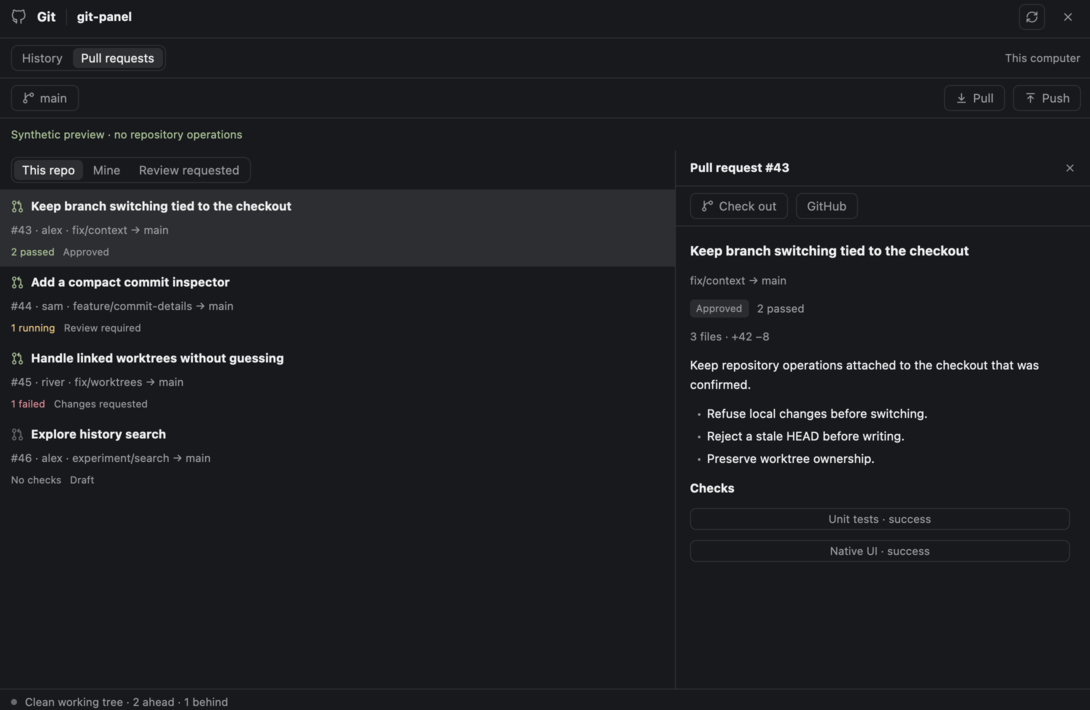
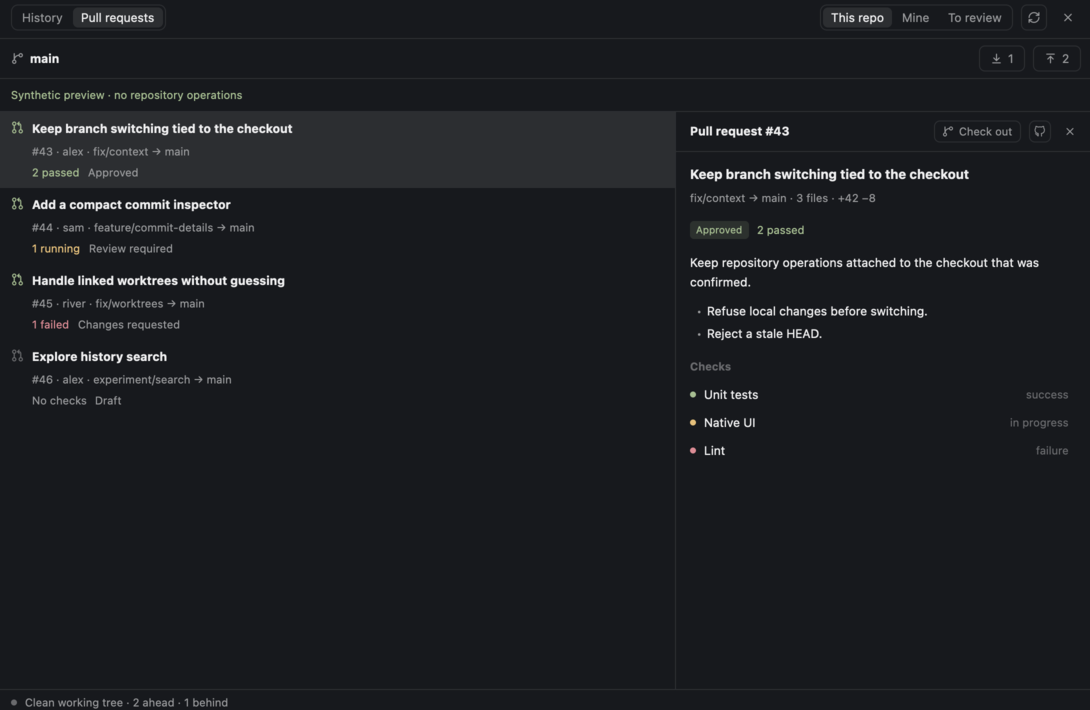
Compact the Git panel header and align list rows
Merge the four header rows into two: mode and panel controls first,
then the branch switcher with Pull/Push counts. The repository path
moves to the branch tooltip; the PR filter shares row 1 at 480px+.

Align commit, PR and branch rows on one 14px gutter, tighten the
title/byline pairs, group PR details, and show checks as a list.

diff --git a/mods/Git/main.js b/mods/Git/main.js
@@ -1,10 +1,13 @@
 import { View, div, svg } from "gpui-kit";
-import { h_flex, v_flex, InputState, Input, TextView, v_virtual_list, Scrollbar, VirtualListScrollHandle } from "gpui-base";
+import { h_flex, v_flex, Button, InputState, Input, TextView, v_virtual_list, Scrollbar, VirtualListScrollHandle } from "gpui-base";
 import { exec, props, focused, spaces, panes, theme, settings, layout, run, openOverlay, closeOverlay, nextCommand, shared, setShared } from "herdr";
 import { GitClient } from "./client.js";
 import { layoutLanes } from "./lanes.js";
-import { contextKey, ago, tint, refLabel, reviewLabel } from "./model.js";
-import { button, segments, bar, label, secondary, pill, empty, graphCell, icon, stop, ROW } from "./ui.js";
+import { contextKey, ago, tint, refLabel, reviewLabel, checksSummary } from "./model.js";
+import { button, segments, bar, secondary, pill, empty, graphCell, graphCellWidth, checkColor, icon, stop, ROW } from "./ui.js";
+
+// Below this width the PR filter takes its own row instead of sharing the mode row.
+const PR_FILTER_INLINE = 480;
 
 function find(node, id) {
   if (node?.id === id) return node;
@@ -237,65 +240,93 @@ export default class Git extends View {
         }))
       .child(Scrollbar.vertical(name).viewport_from_layout().absolute().inset_0());
   }
+  // Header controls. The branch name doubles as the branch picker, as in Codewalker’s header.
+  branchSwitch() {
+    const t = theme(), data = this.data, on = this.mode === "branches", enabled = !this.busy;
+    const name = data.branch || "Detached HEAD";
+    const where = `${data.root}${this.where.on ? ` · ${this.where.on}` : ""}`;
+    // Leads the header: the negative margin puts its icon on the 14px gutter while the hover fill keeps its padding.
+    return Button.new("branches").h(26).min_w(0).ml(-6).px(6).rounded(6).text_size(12).font_semibold().bg(on ? t.selected : "#00000000").text_color(t.foreground)
+      .when(enabled, e => e.cursor_pointer().hover(s => s.bg(on ? t.selected : t.hover)))
+      .disabled(!enabled).tooltip(on ? "Close branch list" : `Switch branch · ${where}`).accessibility_label(`Switch branch, current ${name}`)
+      .on_mouse_down("left", stop).on_click((_event, cx) => { if (enabled) this.setMode(on ? "history" : "branches", cx); })
+      .child(h_flex().min_w(0).gap(6).items_center()
+        .child(svg(icon("git-branch")).size(13).flex_none().text_color(on ? t.foreground : t.muted))
+        .child(div().min_w(0).truncate().child(name)));
+  }
+  branchSearch() {
+    const t = theme(), count = this.branchRows().length;
+    return bar(40)
+      .child(div().flex_1().min_w(0).h(26).px(8).rounded(6).bg(t.background).border_1().border_color(t.input).cursor_text().on_mouse_down("left", stop)
+        .child(Input.new(this.search).h_full().text_size(12).text_color(t.foreground)))
+      .child(div().flex_none().text_size(11).text_color(t.dim).child(`${count} ${count === 1 ? "branch" : "branches"}`))
+      .child(button("back-history", "Done", cx => this.setMode("history", cx), { tooltip: "Back to history" }));
+  }
+  branchRows() {
+    const query = this.search.value().toLowerCase();
+    return (this.data?.branches || []).filter(b => b.name.toLowerCase().includes(query));
+  }
+  prFilter() {
+    return segments("pr-filter", [["all", "This repo"], ["mine", "Mine"], ["review", "To review"]], this.filter, (filter, cx) => {
+      this.filter = filter; this.prs = null; this.prLimit = 50; this.prEpoch++; this.prLoading = false; this.loadPRs(cx); cx.notify();
+    });
+  }
+  loadMore(id, text, action, enabled) {
+    return h_flex().h(36).flex_none().px(14).items_center().border_t(1).border_color(theme().border)
+      .child(button(id, text, action, { small: true, enabled }));
+  }
   history() {
     const t = theme(), data = this.data, commits = data?.commits || [];
     const graph = this.graph;
-    const graphWidth = Math.max(40, (graph?.width || 1) * 12 + 16);
+    const graphWidth = graphCellWidth(graph?.width || 1);
     // Keep every lane: unusual high-fanout histories scroll horizontally, never fake a straight rail.
     return v_flex().flex_1().min_h(0).min_w(0)
-      .child(bar().child(label("Commits")).child(secondary(String(commits.length))).child(div().flex_1())
-        .child(button("scope", this.all ? "All branches" : "Current branch", cx => { this.all = !this.all; this.limit = 150; this.refresh(cx); cx.notify(); }, { small: true, enabled: !this.loading && !this.busy })))
       .when(!commits.length, e => e.child(empty(this.loading ? "Reading history…" : data ? "No commits yet" : "Open a checkout", data ? "Your first commit will appear here." : "Git follows the focused terminal’s folder.")))
       .when(commits.length > 0, e => e.child(v_flex().id("history-horizontal").flex_1().min_h(0).min_w(0).overflow_x_scrollbar()
         .child(this.list("commits", commits, ROW, (commit, i) => {
           const selected = this.selected?.item?.hash === commit.hash;
           const refs = commit.refs.map(refLabel);
-          return div().id(`commit-${commit.hash}`).flex().items_center().h(ROW).w_full().px(8).bg(selected ? t.selected : "#00000000").text_color(t.foreground)
+          return div().id(`commit-${commit.hash}`).flex().items_center().h(ROW).w_full().px(14).bg(selected ? t.selected : "#00000000").text_color(t.foreground)
             .hover(s => s.bg(selected ? t.selected : t.hover)).cursor_pointer().accessibility_label(`${commit.subject}, ${commit.hash.slice(0, 8)}`)
-            .child(h_flex().w_full().h_full().min_w(0).items_center().gap(7)
+            .child(h_flex().w_full().h_full().min_w(0).items_center().gap(8)
               .child(graphCell(graph.rows[i], commit.hash === data.head, graphWidth))
-              .child(v_flex().flex_1().min_w(0).gap(3)
-                .child(div().truncate().text_size(12).font_semibold().child(commit.subject))
-                .child(h_flex().gap(6).min_w(0).items_center()
-                  .when(refs.length > 0, e => e.child(div().min_w(0).max_w(this.width < 560 ? 150 : 300).truncate().text_size(10).text_color(t.accent).tooltip(refs.join(" · ")).child(refs.join(" · "))))
+              // Explicit line heights keep the subject and its byline one tight pair.
+              .child(v_flex().flex_1().min_w(0).gap(1)
+                .child(div().truncate().text_size(12).line_height("16px").font_semibold().child(commit.subject))
+                .child(h_flex().gap(6).min_w(0).items_center().line_height("14px")
+                  .when(refs.length > 0, e => e.child(div().min_w(0).max_w(this.width < 560 ? 150 : 300).truncate().text_size(11).text_color(t.accent).tooltip(refs.join(" · ")).child(refs.join(" · "))))
                   .child(secondary(`${commit.author} · ${ago(commit.time)}`))))
               .when(this.width >= 560, e => e.child(div().flex_none().font_family(settings().font_family).text_size(11).text_color(t.dim).child(commit.hash.slice(0, 7)))));
         }).min_w(graphWidth + 220))))
-      .when(Boolean(data?.more), e => e.child(bar(34).child(button("more-commits", "Load older commits", cx => { this.limit += 150; this.refresh(cx); cx.notify(); }, { small: true, enabled: !this.loading && !this.busy }))));
+      .when(Boolean(data?.more), e => e.child(this.loadMore("more-commits", "Load older commits", cx => { this.limit += 150; this.refresh(cx); cx.notify(); }, !this.loading && !this.busy)));
   }
   prList() {
     const t = theme(), rows = this.prs || [];
     return v_flex().flex_1().min_h(0).min_w(0)
-      .child(bar(40).child(segments("pr-filter", [["all", "This repo"], ["mine", "Mine"], ["review", this.width < 360 ? "To review" : "Review requested"]], this.filter, (filter, cx) => {
-        this.filter = filter; this.prs = null; this.prLimit = 50; this.prEpoch++; this.prLoading = false; this.loadPRs(cx); cx.notify();
-      })))
-      .when(Boolean(this.prError), e => e.child(empty("Couldn’t load pull requests", this.prError)).child(bar().child(button("retry-pr", "Retry", cx => this.loadPRs(cx), { enabled: !this.prLoading }))))
+      .when(Boolean(this.prError), e => e.child(empty("Couldn’t load pull requests", this.prError)).child(h_flex().px(22).child(button("retry-pr", "Retry", cx => this.loadPRs(cx), { enabled: !this.prLoading }))))
       .when(!this.prError && !rows.length, e => e.child(empty(this.prLoading ? "Loading pull requests…" : "No open pull requests", this.prLoading ? "Reading this repository through GitHub CLI." : this.filter === "all" ? "Open pull requests for this repository appear here." : "Try This repo to see everyone’s pull requests.")))
       .when(rows.length > 0, e => e.child(this.list("prs", rows, 76, pr => {
         const on = this.selected?.item?.number === pr.number;
-        const color = pr.checks.kind === "failed" ? t.ansi1 : pr.checks.kind === "pending" ? t.working : pr.checks.kind === "passed" ? t.ansi2 : t.muted;
         const current = !pr.isCrossRepository && pr.headRefName === this.data?.branch;
+        // The icon sits in its own column so all three lines share the title’s left edge.
         return div().id(`pr-${pr.number}`).flex().items_center().w_full().h(76).px(14).bg(on ? t.selected : "#00000000").text_color(t.foreground)
           .hover(s => s.bg(on ? t.selected : t.hover)).cursor_pointer()
           .accessibility_label(`Pull request ${pr.number}: ${pr.title}`)
-          .child(v_flex().w_full().min_w(0).gap(5)
-            .child(h_flex().gap(7).min_w(0).items_center().child(svg(icon("pr")).size(13).flex_none().text_color(pr.isDraft ? t.dim : t.ansi2))
-              .child(div().flex_1().min_w(0).truncate().font_semibold().text_size(12).child(pr.title)))
-            .child(secondary(`#${pr.number} · ${pr.author?.login || "ghost"} · ${pr.headRefName} → ${pr.baseRefName}`))
-            .child(h_flex().gap(8).min_w(0).items_center().child(div().text_size(10).text_color(color).child(pr.checks.label))
-              .child(div().min_w(0).truncate().text_size(10).text_color(t.muted).child(reviewLabel(pr)))
-              .when(current, e => e.child(pill("Current", t.accent)))));
+          .child(h_flex().w_full().min_w(0).items_start().gap(8)
+            .child(svg(icon("pr")).size(13).mt(2).flex_none().text_color(pr.isDraft ? t.dim : t.ansi2))
+            .child(v_flex().flex_1().min_w(0).gap(4)
+              .child(div().min_w(0).truncate().font_semibold().text_size(12).child(pr.title))
+              .child(secondary(`#${pr.number} · ${pr.author?.login || "ghost"} · ${pr.headRefName} → ${pr.baseRefName}`))
+              .child(h_flex().h(16).gap(8).min_w(0).items_center()
+                .child(div().flex_none().text_size(11).text_color(checkColor(pr.checks.kind)).child(pr.checks.label))
+                .child(div().min_w(0).truncate().text_size(11).text_color(t.muted).child(reviewLabel(pr)))
+                .when(current, e => e.child(pill("Current", t.accent))))));
       })))
-      .when(Boolean(this.prMore), e => e.child(bar(34).child(button("more-prs", "Load more pull requests", cx => { this.prLimit += 50; this.loadPRs(cx); cx.notify(); }, { small: true, enabled: !this.prLoading }))));
+      .when(Boolean(this.prMore), e => e.child(this.loadMore("more-prs", "Load more pull requests", cx => { this.prLimit += 50; this.loadPRs(cx); cx.notify(); }, !this.prLoading)));
   }
   branches() {
-    const t = theme(), query = this.search.value().toLowerCase();
-    const rows = (this.data?.branches || []).filter(b => b.name.toLowerCase().includes(query));
+    const t = theme(), rows = this.branchRows();
     return v_flex().flex_1().min_h(0).min_w(0)
-      .child(bar(40).child(div().flex_1().min_w(0).h(26).px(8).rounded(6).bg(t.background).border_1().border_color(t.input)
-        .child(Input.new(this.search).h_full().text_size(12).text_color(t.foreground))))
-      .child(bar().child(label("Branches")).child(secondary(String(rows.length))).child(div().flex_1())
-        .child(button("back-history", "Back", cx => this.setMode("history", cx), { small: true })))
       .when(!rows.length, e => e.child(empty("No matching branches", "Try a shorter name. Remote branches reflect the last fetch.")))
       .when(rows.length > 0, e => e.child(this.list("branches", rows, 48, branch => {
         const current = !branch.remote && branch.name === this.data.branch;
@@ -306,7 +337,7 @@ export default class Git extends View {
           .tooltip(occupied ? `Checked out in ${branch.worktree}` : branch.name)
           .child(h_flex().w_full().min_w(0).gap(8).items_center()
             .child(svg(icon(current ? "check" : "git-branch")).size(13).flex_none().text_color(current ? t.accent : t.muted))
-            .child(v_flex().flex_1().min_w(0).gap(3).child(div().truncate().text_size(12).child(branch.name))
+            .child(v_flex().flex_1().min_w(0).gap(1).line_height("14px").child(div().truncate().text_size(12).line_height("16px").when(current, e => e.font_semibold()).child(branch.name))
               .child(secondary(occupied ? `In ${branch.worktree}` : current ? "Current branch" : branch.remote ? "Remote · creates a tracking branch" : branch.upstream || "Local · not published"))));
       })));
   }
@@ -315,26 +346,47 @@ export default class Git extends View {
     return v_flex().min_h(0).min_w(0).flex_none().border_color(t.border)
       .when(wide, e => e.w(Math.min(420, this.width * 0.4)).border_l(1))
       .when(!wide, e => e.h(Math.min(300, Math.max(150, this.height * 0.38))).border_t(1))
-      .child(bar().child(label(pr ? `Pull request #${selected.item.number}` : selected.item.hash.slice(0, 8))).child(div().flex_1())
+      // One header row: identity, then the actions for this item.
+      .child(bar(40).child(div().flex_1().min_w(0).truncate().font_semibold().text_size(12).child(pr ? `Pull request #${selected.item.number}` : `Commit ${selected.item.hash.slice(0, 8)}`))
+        .when(pr, e => e
+          .child(button("checkout-pr", "Check out", cx => this.ask({ kind: "pr", pr: item }, cx), { small: true, icon: "git-branch", enabled: !this.busy && !this.error && !this.loading && !this.detailLoading && Boolean(this.detail), tooltip: "Check out this pull request in the current checkout" }))
+          .child(button("open-pr", "", cx => { if (/^https:\/\//.test(item.url || "")) cx.open_url(item.url); }, { small: true, icon: "github", enabled: /^https:\/\//.test(item.url || ""), tooltip: "Open pull request on GitHub" })))
         .child(button("close-detail", "", cx => { this.selected = null; this.detail = null; this.detailEpoch++; cx.notify(); }, { small: true, ghost: true, icon: "x", tooltip: "Close details" })))
-      .when(pr, e => e.child(bar(40)
-        .child(button("checkout-pr", "Check out", cx => this.ask({ kind: "pr", pr: item }, cx), { icon: "git-branch", enabled: !this.busy && !this.error && !this.loading && !this.detailLoading && Boolean(this.detail) }))
-        .child(button("open-pr", "GitHub", cx => { if (/^https:\/\//.test(item.url || "")) cx.open_url(item.url); }, { tooltip: "Open pull request on GitHub" }))))
-      .child(v_flex().id(`git-detail-${pr ? selected.item.number : selected.item.hash}`).flex_1().min_h(0).overflow_y_scrollbar().p(14).gap(10)
+      .child(v_flex().id(`git-detail-${pr ? selected.item.number : selected.item.hash}`).flex_1().min_h(0).overflow_y_scrollbar().px(14).pt(12).pb(16).gap(14)
         .when(this.detailLoading, e => e.child(secondary("Loading details…")))
         .when(Boolean(this.detailError), e => e.child(div().text_size(12).text_color(t.blocked).child(this.detailError)))
         .when(!pr && Boolean(this.detail), e => e.child(div().font_family(settings().font_family).text_size(11).text_color(t.muted).child(this.detail)))
         .when(pr && Boolean(this.detail), e => e
-          .child(div().font_semibold().text_size(13).child(item.title))
-          .child(secondary(`${item.headRefName} → ${item.baseRefName}`))
-          .child(h_flex().gap(8).items_center().child(pill(reviewLabel(item), item.reviewDecision === "CHANGES_REQUESTED" ? t.ansi1 : t.muted)).child(secondary(item.checks.label)))
-          .when(item.mergeable === "CONFLICTING", e => e.child(div().text_size(12).text_color(t.ansi1).child("This pull request has merge conflicts.")))
-          .child(secondary(`${item.changedFiles} files · +${item.additions} −${item.deletions}`))
-          .child(TextView.markdown("git-pr-body", item.body || "No description provided.").selectable(true).w_full().text_size(12).text_color(t.foreground)
-            .on_link_click((url, cx) => { if (/^https?:\/\//.test(url)) cx.open_url(url); }))
-          .when(item.bodyTruncated, e => e.child(secondary("Description shortened. Open GitHub for the full text.")))
-          .when(item.checksList?.length > 0, e => e.child(label(item.checksList.length > 80 ? `Checks · first 80 of ${item.checksList.length}` : "Checks")).children(item.checksList.slice(0, 80).map((check, i) =>
-            button(`check-${i}`, `${check.name} · ${check.state.toLowerCase().replace(/_/g, " ")}`, cx => { if (/^https:\/\//.test(check.url || "")) cx.open_url(check.url); }, { small: true, maxW: wide ? 380 : this.width - 30, enabled: /^https:\/\//.test(check.url || "") }))))) );
+          // Title group: what, where, how big.
+          .child(v_flex().gap(4)
+            .child(div().font_semibold().text_size(13).child(item.title))
+            .child(secondary(`${item.headRefName} → ${item.baseRefName} · ${item.changedFiles} ${item.changedFiles === 1 ? "file" : "files"} · +${item.additions} −${item.deletions}`)))
+          // Status group: review and CI stay separate facts.
+          .child(v_flex().gap(6)
+            .child(h_flex().gap(8).items_center()
+              .child(pill(reviewLabel(item), item.reviewDecision === "CHANGES_REQUESTED" ? t.ansi1 : item.reviewDecision === "APPROVED" ? t.ansi2 : t.muted))
+              .child(div().text_size(11).text_color(checkColor(item.checks.kind)).child(item.checks.label)))
+            .when(item.mergeable === "CONFLICTING", e => e.child(div().text_size(12).text_color(t.ansi1).child("This pull request has merge conflicts."))))
+          .child(v_flex().gap(6)
+            .child(TextView.markdown("git-pr-body", item.body || "No description provided.").selectable(true).w_full().text_size(12).text_color(item.body ? t.foreground : t.muted)
+              .on_link_click((url, cx) => { if (/^https?:\/\//.test(url)) cx.open_url(url); }))
+            .when(item.bodyTruncated, e => e.child(secondary("Description shortened. Open GitHub for the full text."))))
+          .when(item.checksList?.length > 0, e => e.child(v_flex().gap(2)
+            .child(div().pb(4).text_size(11).font_semibold().text_color(t.dim).child(item.checksList.length > 80 ? `Checks · first 80 of ${item.checksList.length}` : "Checks"))
+            .children(item.checksList.slice(0, 80).map((check, i) => this.checkRow(check, i)))))));
+  }
+  // Left-aligned rows read as a list of results, not a stack of buttons.
+  checkRow(check, i) {
+    const t = theme(), url = /^https:\/\//.test(check.url || "") ? check.url : null;
+    const state = String(check.state || "").toLowerCase().replace(/_/g, " ");
+    return Button.new(`check-${i}`).w_full().h(26).px(6).mx(-6).rounded(5).text_size(12).text_color(t.foreground)
+      .when(Boolean(url), e => e.cursor_pointer().hover(s => s.bg(t.hover)).tooltip("Open check on GitHub"))
+      .disabled(!url).accessibility_label(`${check.name}, ${state}`).on_mouse_down("left", stop)
+      .on_click((_event, cx) => { if (url) cx.open_url(url); })
+      .child(h_flex().w_full().min_w(0).gap(8).items_center()
+        .child(div().size(6).flex_none().rounded_full().bg(checkColor(checksSummary([check]).kind)))
+        .child(div().flex_1().min_w(0).truncate().child(check.name))
+        .child(div().flex_none().text_size(11).text_color(t.dim).child(state)));
   }
   confirmation() {
     const { action, snapshot } = this.pending;
@@ -342,9 +394,11 @@ export default class Git extends View {
     const explanation = action.kind === "push" ? `Destination: ${action.remote} → ${action.target.replace(/^refs\/heads\//, "")}. No force push.`
       : action.kind === "pull" ? `From ${snapshot.upstream}. Fast-forward only; local changes are never stashed automatically.`
       : "This changes the current checkout for every terminal using it. Commit or stash local changes first.";
-    return v_flex().flex_none().px(14).py(12).gap(8).bg(theme().surface).border_t(1).border_color(theme().border)
-      .child(label(title)).child(div().text_size(12).text_color(theme().muted).child(explanation))
-      .child(secondary(`${snapshot.root}${this.where.on ? ` · ${this.where.on}` : ""}`))
+    return v_flex().flex_none().px(14).pt(12).pb(14).gap(12).bg(theme().surface).border_t(1).border_color(theme().border)
+      .child(v_flex().gap(4)
+        .child(div().font_semibold().text_size(13).child(title))
+        .child(div().text_size(12).text_color(theme().muted).child(explanation))
+        .child(secondary(`${snapshot.root}${this.where.on ? ` · ${this.where.on}` : ""}`)))
       .child(h_flex().gap(8).justify_end().child(button("cancel-action", "Cancel", cx => { this.pending = null; cx.notify(); }, { enabled: !this.busy }))
         .child(button("confirm-action", this.busy ? "Working…" : "Confirm", cx => this.perform(cx), { primary: true, enabled: !this.busy })));
   }
@@ -373,7 +427,7 @@ export default class Git extends View {
         if (this.busy) return;
         if (!this.pending && ["up", "down", "enter"].includes(event.keystroke)) {
           const id = this.mode === "history" ? "commits" : this.mode;
-          const rows = id === "commits" ? this.data?.commits || [] : id === "prs" ? this.prs || [] : (this.data?.branches || []).filter(b => b.name.toLowerCase().includes(this.search.value().toLowerCase()));
+          const rows = id === "commits" ? this.data?.commits || [] : id === "prs" ? this.prs || [] : this.branchRows();
           if (!rows.length) return;
           const key = row => String(row.ref || row.hash || row.number);
           const at = rows.findIndex(row => key(row) === this.cursor);
@@ -390,31 +444,36 @@ export default class Git extends View {
         else return;
         cx.stop_propagation(); cx.notify();
       })
-      .child(bar(42).gap(10)
-        .child(svg(icon("github")).size(16).flex_none().text_color(t.muted))
-        .when(width >= 480, e => e.child(div().font_semibold().child("Git")).child(div().w(1).h(16).flex_none().bg(t.border)))
-        .child(div().flex_1().min_w(0).truncate().font_semibold().text_size(12).tooltip(data?.root || this.where.cwd || "No checkout").child(repo || "No checkout"))
+      // Row 1: what is listed, plus panel controls.
+      .child(bar(42)
+        .child(segments("mode", [["history", "History"], ["prs", "Pull requests"]], this.mode, (mode, cx) => this.setMode(mode, cx)))
+        .child(div().flex_1())
+        .when(this.mode === "history", e => e.child(button("scope", width < 400 ? "All" : "All branches", cx => { this.all = !this.all; this.limit = 150; this.refresh(cx); cx.notify(); },
+          { selected: this.all, enabled: !this.loading && !this.busy && Boolean(data), tooltip: this.all ? "Showing all branches · show only the current branch" : "Showing the current branch · show all branches" })))
+        .when(this.mode === "prs" && width >= PR_FILTER_INLINE, e => e.child(this.prFilter()))
         .child(button("refresh", "", cx => this.refresh(cx, true), { icon: "refresh", tooltip: "Refresh Git and pull requests", enabled: !this.loading && !this.prLoading && !this.busy }))
         .when(Boolean(p.overlay || p.dock), e => e.child(button("close-git", "", () => this.closePanel(), { icon: "x", ghost: true, tooltip: "Close Git", enabled: !this.busy }))))
-      .child(bar(40).child(segments("mode", [["history", "History"], ["prs", "Pull requests"]], this.mode, (mode, cx) => this.setMode(mode, cx)))
-        .child(div().flex_1())
-        .when(width >= 560, e => e.child(secondary(this.where.on || "This computer"))))
-      .child(bar(40)
-        .child(button("branches", data?.branch || (data?.head ? "Detached HEAD" : "Branches"), cx => this.setMode(this.mode === "branches" ? "history" : "branches", cx), { icon: "git-branch", maxW: Math.max(70, width - 210), selected: this.mode === "branches", enabled: Boolean(data) && !this.busy, tooltip: data?.branch ? `Switch branch · ${data.branch}` : "Switch branch" }))
-        .child(div().flex_1())
-        .child(button("pull", "Pull", cx => this.ask({ kind: "pull" }, cx), { icon: "pull", enabled: canSync && Boolean(data?.upstream), tooltip: data?.upstream ? `Pull from ${data.upstream} · fast-forward only` : "Publish a branch before pulling" }))
-        .child(button("push", data?.upstream ? "Push" : "Publish", cx => this.ask({ kind: "push" }, cx), { icon: "push", enabled: canSync && Boolean(data?.remotes.length), tooltip: data?.upstream ? `Push ${data.ahead} outgoing commits` : "Publish branch and set its upstream" })))
-      .when(Boolean(error), e => e.child(v_flex().flex_none().px(14).py(8).gap(6).bg(tint(t.blocked, "1a")).border_b(1).border_color(t.border)
-        .child(div().text_size(12).text_color(t.blocked).child(error))
-        .child(button("dismiss-error", "Dismiss", cx => { this.operationError = null; this.error = null; cx.notify(); }, { small: true }))))
-      .when(Boolean(this.notice), e => e.child(div().flex_none().px(14).py(7).text_size(11).text_color(t.ansi2).child(this.notice)))
+      // Row 2: the branch (switcher; repository in its tooltip) and what can move. The branch picker turns this row into its search field.
+      .child(this.mode === "branches" ? this.branchSearch() : bar(40)
+        .child(h_flex().flex_1().min_w(0).items_center()
+          .when(Boolean(data?.head || data?.branch), e => e.child(this.branchSwitch()))
+          .when(!(data?.head || data?.branch), e => e.child(div().min_w(0).truncate().text_size(12).text_color(t.muted).child(this.loading ? "Reading repository…" : repo ? `${repo} · no commits` : "No checkout"))))
+        .when(Boolean(data?.upstream), e => e.child(button("pull", data.behind ? String(data.behind) : "", cx => this.ask({ kind: "pull" }, cx), { icon: "pull", enabled: canSync, tooltip: `Pull${data.behind ? ` ${data.behind} incoming ${data.behind === 1 ? "commit" : "commits"}` : ""} from ${data.upstream} · fast-forward only` })))
+        .when(Boolean(data?.branch), e => e.child(data.upstream
+          ? button("push", data.ahead ? String(data.ahead) : "", cx => this.ask({ kind: "push" }, cx), { icon: "push", enabled: canSync && data.remotes.length > 0, tooltip: data.ahead ? `Push ${data.ahead} outgoing ${data.ahead === 1 ? "commit" : "commits"} to ${data.upstream}` : `Push to ${data.upstream}` })
+          : button("push", "Publish", cx => this.ask({ kind: "push" }, cx), { icon: "push", enabled: canSync && data.remotes.length > 0, tooltip: data.remotes.length ? "Publish branch and set its upstream" : "Add a remote before publishing" }))))
+      .when(this.mode === "prs" && width < PR_FILTER_INLINE, e => e.child(bar(40).child(this.prFilter())))
+      .when(Boolean(error), e => e.child(h_flex().flex_none().px(14).py(7).gap(8).items_start().bg(tint(t.blocked, "1a")).border_b(1).border_color(t.border)
+        .child(div().flex_1().min_w(0).pt(2).text_size(12).text_color(t.blocked).child(error))
+        .child(button("dismiss-error", "", cx => { this.operationError = null; this.error = null; cx.notify(); }, { small: true, ghost: true, icon: "x", tooltip: "Dismiss" }))))
+      .when(Boolean(this.notice), e => e.child(div().flex_none().px(14).py(7).text_size(11).text_color(t.ansi2).border_b(1).border_color(t.border).child(this.notice)))
       .child((wide ? h_flex().items_stretch() : v_flex()).flex_1().min_h(0).min_w(0)
         .child(this.mode === "prs" ? this.prList() : this.mode === "branches" ? this.branches() : this.history())
         .when(Boolean(this.selected) && this.mode !== "branches", e => e.child(this.detailView(wide))))
       .when(Boolean(this.pending), e => e.child(this.confirmation()))
       .child(h_flex().h(26).flex_none().px(14).gap(8).items_center().border_t(1).border_color(t.border).text_size(11)
         .child(div().size(6).flex_none().rounded_full().bg(error ? t.blocked : this.loading || this.busy ? t.working : t.idle))
-        .child(div().flex_1().min_w(0).truncate().text_color(t.muted).child(this.busy ? "Git operation in progress…" : this.loading ? "Refreshing…" : `${sync}${data?.upstream ? ` · ${data.ahead} ahead · ${data.behind} behind` : data ? " · no upstream" : ""}`))
+        .child(div().flex_1().min_w(0).truncate().text_color(t.muted).child(this.busy ? "Git operation in progress…" : this.loading && !data ? "Reading repository…" : `${sync}${data?.upstream ? ` · ${data.ahead} ahead · ${data.behind} behind` : data ? " · not published" : ""}${this.where.on ? ` · ${this.where.on}` : ""}`))
         .when(Boolean(this.prLoading), e => e.child(secondary("Reading PRs…"))));
   }
 }

diff --git a/mods/Git/ui.js b/mods/Git/ui.js
@@ -33,7 +33,6 @@ export function segments(id, items, current, action) {
       .on_click((_event, cx) => action(value, cx)).child(label)));
 }
 export const bar = (height = 36) => h_flex().h(height).flex_none().px(14).gap(8).items_center().border_b(1).border_color(theme().border);
-export const label = text => div().font_semibold().text_size(12).child(text);
 export const secondary = text => div().min_w(0).truncate().text_size(11).text_color(theme().muted).child(text);
 export function pill(text, color = theme().accent) {
   return div().flex_none().max_w(180).truncate().px(6).py(1).rounded(4).text_size(10).bg(tint(color)).text_color(color).child(text);
@@ -42,9 +41,16 @@ export function empty(title, detail) {
   return v_flex().px(22).py(28).gap(7).child(div().font_semibold().text_size(13).child(title))
     .child(div().text_size(12).text_color(theme().muted).child(detail));
 }
+// Lane 0 centers on a 13px icon column, so commit text shares the left edge of PR and branch rows.
+const LANE = 12, FIRST = 6;
+export const graphCellWidth = lanes => Math.max(13, FIRST * 2 + (lanes - 1) * LANE);
+export function checkColor(kind) {
+  const t = theme();
+  return kind === "failed" ? t.ansi1 : kind === "pending" ? t.working : kind === "passed" ? t.ansi2 : t.muted;
+}
 export function graphCell(row, head, width) {
   const t = theme(), colors = [t.accent, t.ansi2, t.ansi5, t.ansi3, t.ansi6, t.ansi4], paths = new Map();
-  const x = lane => 12 + lane * 12, y = fraction => fraction * ROW;
+  const x = lane => FIRST + lane * LANE, y = fraction => fraction * ROW;
   for (const [a, ya, b, yb, c] of row.segments) {
     const color = colors[c % colors.length];
     let path = (paths.get(color) || PathBuilder.stroke(1.5)).move_to(x(a), y(ya));

diff --git a/mods/Git/model.js b/mods/Git/model.js
@@ -61,7 +61,8 @@ export function ago(time) {
   return seconds < 60 ? "now" : seconds < 3600 ? `${Math.floor(seconds / 60)}m` : seconds < 86400 ? `${Math.floor(seconds / 3600)}h` : `${Math.floor(seconds / 86400)}d`;
 }
 export function tint(color, alpha = "26") { return /^#[a-f\d]{6}/i.test(color) ? color.slice(0, 7) + alpha : color; }
-export function refLabel(ref) { return ref.replace(/refs\/(heads|remotes|tags)\//g, ""); }
+// HEAD is drawn as a ring on the graph, so "HEAD -> main" reads as "main".
+export function refLabel(ref) { return ref.replace(/^HEAD -> /, "").replace(/refs\/(heads|remotes|tags)\//g, ""); }
 export function sameHead(a, b) { return a.head === b.head && a.branch === b.branch && a.upstream === b.upstream; }
 export function contextKey(where) { return JSON.stringify([where?.cwd || "", where?.on || null]); }
 

diff --git a/DESIGN.md b/DESIGN.md
@@ -4,11 +4,13 @@ This is an Operate surface inside Codewalker’s existing visual system, not a n
 
 - Host theme and UI font throughout; no private palette. ANSI colors distinguish graph lanes and factual check states.
 - 10px outer card radius, 1px theme border; omit the card when the host supplies a frame.
-- 42px repository header; 40px mode/action rows; 36px section headers; 26px status footer. Horizontal padding 14px, control gaps 8px (10px in the header).
+- Two header rows. Row 1 (42px): History/Pull requests, the mode's own control (All branches toggle, or the PR filter), Refresh, Close. Row 2 (40px): branch switcher (repository path in its tooltip), then Pull/Push with incoming/outgoing counts. Below 480px the PR filter takes a third row. The branch picker turns row 2 into its search field. No separate list-title row.
+- 40px detail header carries the item's actions; 36px load-more rows; 26px status footer. Horizontal padding 14px, control gaps 8px (10px in the header).
+- Every list shares one left edge: 14px gutter, a 13px icon or lane-0 column, 8px gap. PR and branch icons sit in their own column so the lines below the title align with it.
 - 13px panel text; 12px semibold section/row headings; 11px metadata; 10px compact status labels. Monospace is reserved for object IDs and Git output.
 - Codewalker’s 26px controls, 22px small controls, 6px corners, 5px icon/label gaps. Labelled ghost buttons keep a border. Segmented controls use a 26px outer frame and 20px segments.
-- Commit rows: 48px, two lines, 12px lane spacing, 8px nodes. Native paths show topology rather than text approximations. HEAD is a ring. No decorative animation.
-- PR rows: 76px, title first, branch/author second, CI/review state third. Do not collapse these facts into an unsupported “ready to merge” claim.
+- Commit rows: 48px, two lines, 12px lane spacing, lane 0 centered at 6px, 8px nodes. Ref labels drop `HEAD ->`; the ring marks HEAD. Native paths show topology rather than text approximations. HEAD is a ring. No decorative animation.
+- PR rows: 76px, title first, branch/author second, CI/review state third (12px title, 11px lines below). PR details group title and size, then review and CI, then the description, then checks as left-aligned rows with a state dot. Do not collapse these facts into an unsupported “ready to merge” claim.
 - Details stack below the list at narrow widths and sit beside it at 760px+. Long refs and subjects truncate without displacing actions. High-fanout graphs scroll horizontally rather than dropping lanes.
 - Branch switches and network writes use an inline confirmation, with repository and destination. There is no surprise modal and no silent checkout.
 - List event handlers belong on `on_item_click`, never inside a deferred row renderer. Virtual lists fill a relative parent, with an overlaid scrollbar; a flex-only native list can collapse even when its initial description passes.
